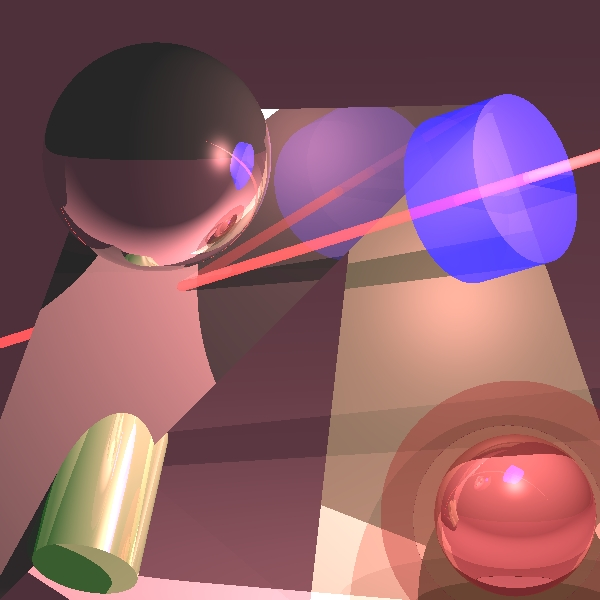
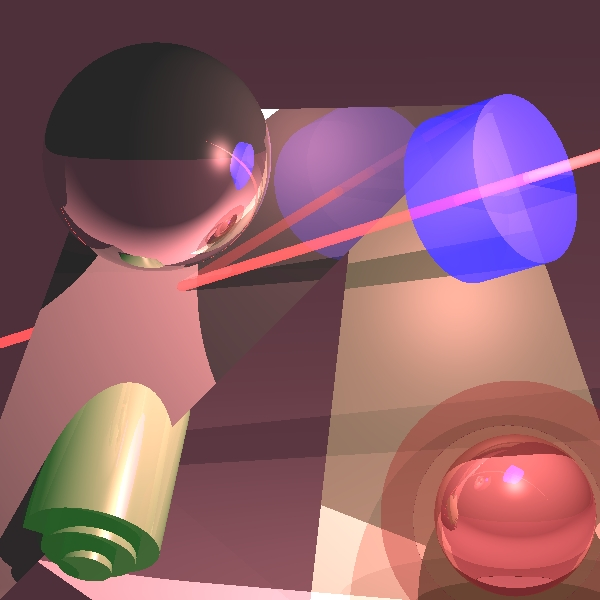
11 geometries 01/06/2020

Changed region(s): [[0.0, 0.63, 0.33, 1.0], [0.18, 0.42, 0.27, 0.45], [0.75, 0.81, 0.78, 0.87]]

diff --git a/UnitTests/UnitTests/ReflectionRefractionTests.java b/UnitTests/UnitTests/ReflectionRefractionTests.java
@@ -130,8 +130,12 @@ public class ReflectionRefractionTests {
                         40, new Point3D(-50, -50, 50)),
                 new Sphere(new Color(25,0,0), new Material(0, 0, 30, 0.8, 0),
                         50, new Point3D(80, 80, 115)),
-                new Cylinder(new Color(0,50,0), new Material(0.5, 0.5, 30,0,0.5), 20,
+                new Cylinder(new Color(0,50,0), new Material(0.5, 0.5, 30,0,0.1), 10,
                         new Ray(new Point3D(-80, 100, 115),new Vector(0.2,-1,0.6)), 60),
+                new Cylinder(new Color(0,50,0), new Material(0.5, 0.5, 30,0,0.1), 18,
+                        new Ray(new Point3D(-79, 95, 118),new Vector(0.2,-1,0.6)), 60),
+                new Cylinder(new Color(0,50,0), new Material(0.5, 0.5, 30,0,0.1), 26,
+                        new Ray(new Point3D(-78, 90, 121),new Vector(0.2,-1,0.6)), 60),
                 new Sphere(new Color(50,0,0), new Material(0.5, 0.5, 30,0,0.5),
                         30, new Point3D(80, 80, 115))
         );
